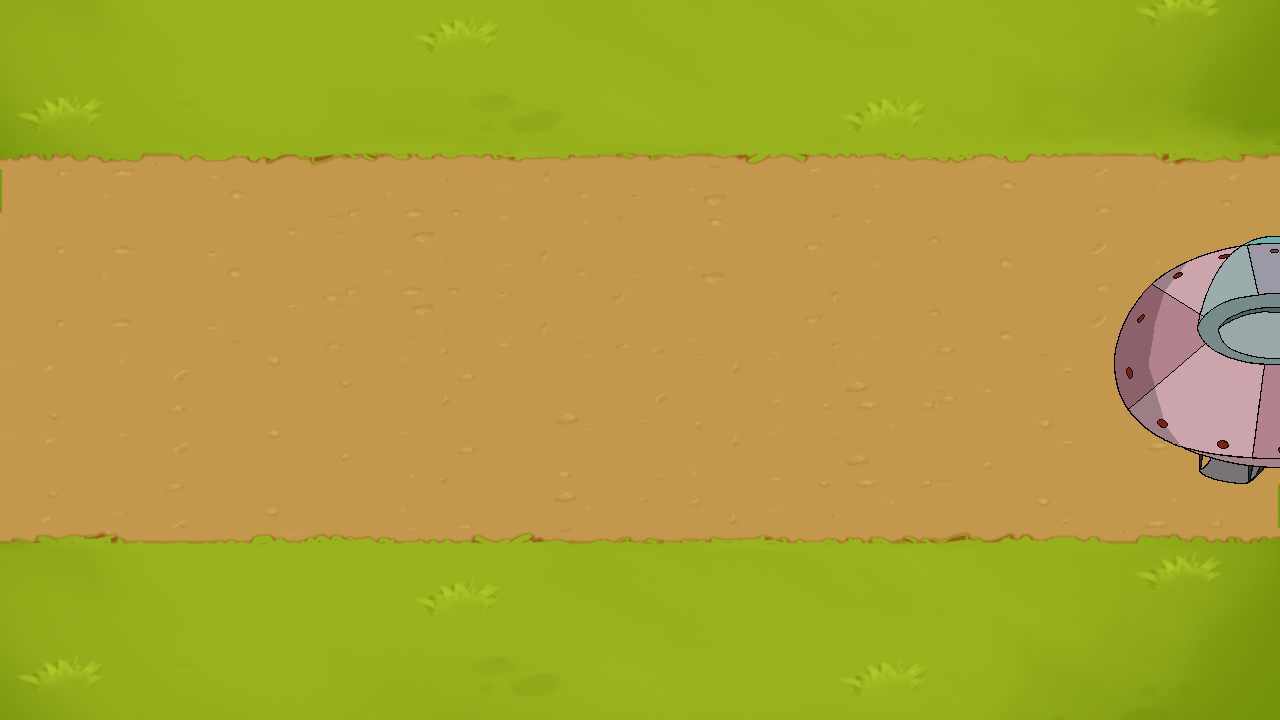
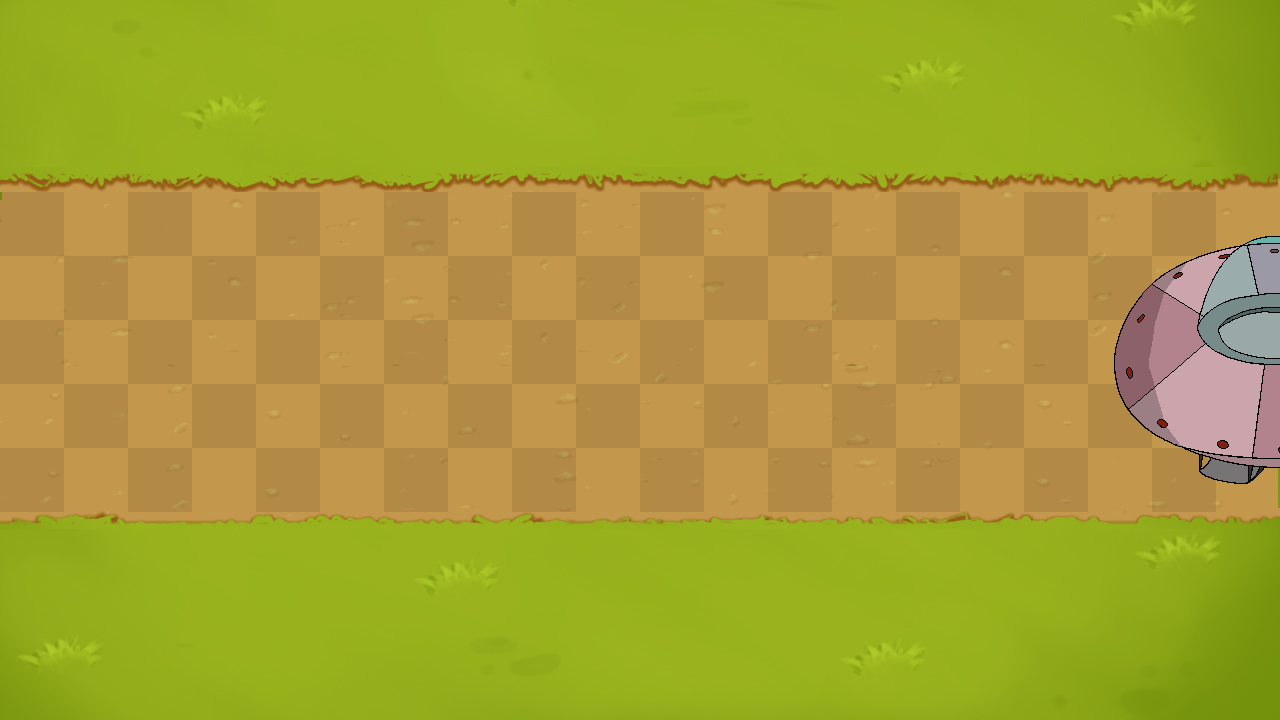
nouvelle map

Changed region(s): [[0.0, 0.7028, 1.0, 0.7639], [0.0, 0.2139, 1.0, 0.275], [0.9375, 0.0, 0.9688, 0.0306]]

diff --git a/src/fonctions.h b/src/fonctions.h
@@ -12,7 +12,7 @@
 #define SCREEN_WIDTH 1280		//Defini la taille de la fenetre
 #define SCREEN_HEIGHT 720
 
-#define PATH_TOP_Y 170			//Coordonne en y de la limite du terrain
+#define PATH_TOP_Y 155			//Coordonne en y de la limite du terrain
 #define PATH_BOTTOM_Y 500
 #define GRID_STEP 64			//Taille des carres de la grille sur le terrain
 
@@ -147,7 +147,6 @@ void doEnnemi();			//appel permettant de gerer la creation et le deplacement des
 void initTourelle(int n, int lane);
 void drawTourelle();
 void doTourelle();			//appel permettant de gerer la creation et le deplacement des tourelles
-void createTourelle();
 
 // ************** projectile.c
 void initLaser();

diff --git a/src/graphics.c b/src/graphics.c
@@ -224,7 +224,7 @@ void loadAllSprites()
 	Font = loadFont("sfd/FreeSans.ttf", 30);
 	loadSprite(PLAYER_R_SPRITE, "gfx/Roger_CleanR.png");
 	loadSprite(PLAYER_L_SPRITE, "gfx/Roger_CleanL.png");
-	loadSprite(BACKGROUND_SPRITE, "gfx/TerrainV1.png");
+	loadSprite(BACKGROUND_SPRITE, "gfx/TerrainV2.png");
 	loadSprite(OFFICER_SPRITE, "gfx/Agent_Clean.png");
 	loadSprite(TOURELLE_SPRITE, "gfx/Tourelle_Clean.png");
 	loadSprite(LASER_SPRITE, "gfx/Laser_Clean.png");
